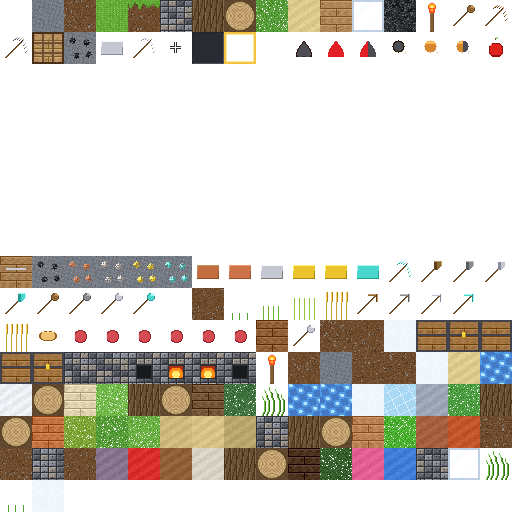
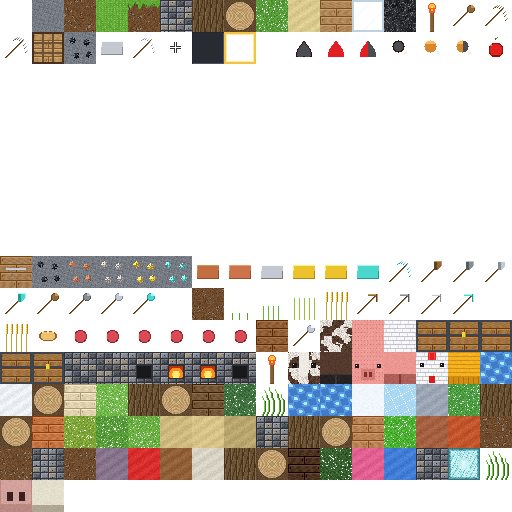
Fix sea lantern transparency and replace placeholder textures for cow, pig, and chicken

Changed region(s): [[0.5625, 0.625, 0.9375, 0.75], [0.0, 0.9375, 0.125, 1.0], [0.875, 0.875, 0.9375, 0.9375]]

diff --git a/scripts/generate_roots_atlas.py b/scripts/generate_roots_atlas.py
@@ -686,6 +686,268 @@ def gen_gui_food(fill_mode="full"):
                 pix[x, y] = bone
     return img
 
+# ---------------------------------------------------------------------------
+# Fauna & Luminescent Block Generators (Sea Lantern, Cow, Pig, Chicken)
+# ---------------------------------------------------------------------------
+
+def gen_sea_lantern(seed=238):
+    """
+    Original 32x luminescent sea lantern block.
+    100% opaque crystalline aquamarine core with prismarine teal border framing.
+    """
+    img = Image.new("RGBA", (TILE_SIZE, TILE_SIZE), (0, 0, 0, 255))
+    pix = img.load()
+    border_dark = (55, 115, 125, 255)
+    border_mid = (85, 155, 165, 255)
+    border_light = (130, 205, 215, 255)
+    core_base = (185, 238, 240, 255)
+    core_bright = (235, 252, 255, 255)
+    core_facet = (140, 212, 220, 255)
+    core_deep = (95, 175, 185, 255)
+
+    for y in range(TILE_SIZE):
+        for x in range(TILE_SIZE):
+            h = hash2d(x, y, seed)
+            dist_edge = min(x, y, 31 - x, 31 - y)
+            if dist_edge == 0:
+                pix[x, y] = border_dark
+            elif dist_edge == 1:
+                pix[x, y] = border_mid if h > 0.3 else border_dark
+            elif dist_edge == 2:
+                pix[x, y] = border_light if h > 0.4 else border_mid
+            else:
+                cx = abs(x - 15.5) / 15.5
+                cy = abs(y - 15.5) / 15.5
+                center_dist = math.sqrt(cx * cx + cy * cy)
+                facet = ((x + y) % 6 == 0) or ((x - y + 32) % 6 == 0)
+                sub_shard = ((x * 2 + y) % 9 == 0)
+                delta = int((h - 0.5) * 24)
+                if center_dist < 0.4:
+                    c = blend(core_bright, core_base, center_dist / 0.4)
+                elif facet:
+                    c = core_bright if h > 0.5 else core_facet
+                elif sub_shard:
+                    c = core_deep
+                else:
+                    c = core_base
+                pix[x, y] = noise_mod(c, delta)
+    return img
+
+def gen_cow_hide(seed=170):
+    """Chocolate brown cow hide with organic creamy white dairy patches."""
+    img = Image.new("RGBA", (TILE_SIZE, TILE_SIZE), (0, 0, 0, 255))
+    pix = img.load()
+    brown_dark = (68, 48, 36, 255)
+    brown_mid = (88, 62, 48, 255)
+    white_base = (235, 230, 224, 255)
+    white_shadow = (205, 198, 192, 255)
+
+    for y in range(TILE_SIZE):
+        for x in range(TILE_SIZE):
+            h = hash2d(x, y, seed)
+            patch_n = (math.sin(x * 0.28) * math.cos(y * 0.32) + 
+                       math.sin((x + y) * 0.22) * 0.5 + 
+                       hash2d(x // 4, y // 4, seed + 1) * 0.8)
+            is_white = patch_n > 0.35
+            delta = int((h - 0.5) * 18)
+            if is_white:
+                base = white_base if h > 0.4 else white_shadow
+            else:
+                base = brown_mid if h > 0.35 else brown_dark
+            pix[x, y] = noise_mod(base, delta)
+    return img
+
+def gen_cow_head(seed=185):
+    """Cow face with white forehead blaze and dark expressive eyes."""
+    img = gen_cow_hide(seed)
+    pix = img.load()
+    white_blaze = (238, 234, 228, 255)
+    eye_dark = (25, 22, 22, 255)
+    eye_glint = (255, 255, 255, 255)
+
+    for y in range(TILE_SIZE):
+        for x in range(TILE_SIZE):
+            h = hash2d(x, y, seed + 10)
+            blaze_w = 4 if y > 20 else 5
+            if abs(x - 15.5) <= blaze_w and y < 24:
+                pix[x, y] = noise_mod(white_blaze, int((h - 0.5) * 14))
+            if (4 <= x <= 8) and (11 <= y <= 15):
+                pix[x, y] = eye_glint if (x == 5 and y == 12) else eye_dark
+            if (23 <= x <= 27) and (11 <= y <= 15):
+                pix[x, y] = eye_glint if (x == 24 and y == 12) else eye_dark
+    return img
+
+def gen_cow_legs(seed=186):
+    """Cow legs with chocolate brown fur and charcoal hooves at bottom."""
+    img = Image.new("RGBA", (TILE_SIZE, TILE_SIZE), (0, 0, 0, 255))
+    pix = img.load()
+    brown_mid = (84, 58, 44, 255)
+    hoof_charcoal = (38, 34, 34, 255)
+    hoof_rim = (58, 54, 54, 255)
+
+    for y in range(TILE_SIZE):
+        for x in range(TILE_SIZE):
+            h = hash2d(x, y, seed)
+            delta = int((h - 0.5) * 16)
+            if y >= 22:
+                c = hoof_rim if y == 22 or (x in (15, 16)) else hoof_charcoal
+            else:
+                c = brown_mid
+            pix[x, y] = noise_mod(c, delta)
+    return img
+
+def gen_cow_snout(seed=240):
+    """Soft rosy mauve cow snout with dark nostrils."""
+    img = Image.new("RGBA", (TILE_SIZE, TILE_SIZE), (0, 0, 0, 255))
+    pix = img.load()
+    snout_pink = (212, 162, 156, 255)
+    snout_shadow = (185, 138, 132, 255)
+    nostril = (58, 32, 32, 255)
+
+    for y in range(TILE_SIZE):
+        for x in range(TILE_SIZE):
+            h = hash2d(x, y, seed)
+            delta = int((h - 0.5) * 14)
+            if ((7 <= x <= 12) and (12 <= y <= 20)) or ((19 <= x <= 24) and (12 <= y <= 20)):
+                pix[x, y] = nostril
+            else:
+                base = snout_shadow if y >= 24 or x in (0, 31) else snout_pink
+                pix[x, y] = noise_mod(base, delta)
+    return img
+
+def gen_cow_horns(seed=241):
+    """Bone and ivory horn texture."""
+    img = Image.new("RGBA", (TILE_SIZE, TILE_SIZE), (0, 0, 0, 255))
+    pix = img.load()
+    horn_ivory = (228, 222, 204, 255)
+    horn_base = (175, 165, 145, 255)
+    for y in range(TILE_SIZE):
+        for x in range(TILE_SIZE):
+            h = hash2d(x, y, seed)
+            delta = int((h - 0.5) * 16)
+            c = horn_base if y > 24 else horn_ivory
+            pix[x, y] = noise_mod(c, delta)
+    return img
+
+def gen_pig_hide(seed=171):
+    """Rosy pink pig skin with subtle warmth and highlights."""
+    img = Image.new("RGBA", (TILE_SIZE, TILE_SIZE), (0, 0, 0, 255))
+    pix = img.load()
+    pink_base = (238, 155, 150, 255)
+    pink_shadow = (212, 130, 125, 255)
+    for y in range(TILE_SIZE):
+        for x in range(TILE_SIZE):
+            h = hash2d(x, y, seed)
+            delta = int((h - 0.5) * 20)
+            base = pink_shadow if (y % 4 == 0 and x % 3 == 0) else pink_base
+            pix[x, y] = noise_mod(base, delta)
+    return img
+
+def gen_pig_head(seed=187):
+    """Cute pig face with prominent snout, dark eyes, and pink skin."""
+    img = gen_pig_hide(seed)
+    pix = img.load()
+    snout_base = (220, 122, 118, 255)
+    nostril = (118, 52, 52, 255)
+    eye_dark = (36, 25, 28, 255)
+    eye_glint = (255, 255, 255, 255)
+
+    for y in range(TILE_SIZE):
+        for x in range(TILE_SIZE):
+            h = hash2d(x, y, seed + 20)
+            if (3 <= x <= 6 and 12 <= y <= 15):
+                pix[x, y] = eye_glint if (x == 4 and y == 13) else eye_dark
+            elif (25 <= x <= 28 and 12 <= y <= 15):
+                pix[x, y] = eye_glint if (x == 26 and y == 13) else eye_dark
+            elif (9 <= x <= 22 and 17 <= y <= 27):
+                if (12 <= x <= 14 and 20 <= y <= 24) or (17 <= x <= 19 and 20 <= y <= 24):
+                    pix[x, y] = nostril
+                else:
+                    pix[x, y] = noise_mod(snout_base, int((h - 0.5) * 14))
+    return img
+
+def gen_pig_legs(seed=188):
+    """Pink pig legs with darker cloven trotters."""
+    img = Image.new("RGBA", (TILE_SIZE, TILE_SIZE), (0, 0, 0, 255))
+    pix = img.load()
+    pink_base = (235, 150, 145, 255)
+    trotter = (175, 95, 90, 255)
+    cleft = (125, 60, 55, 255)
+    for y in range(TILE_SIZE):
+        for x in range(TILE_SIZE):
+            h = hash2d(x, y, seed)
+            delta = int((h - 0.5) * 16)
+            if y >= 22:
+                c = cleft if x in (15, 16) else trotter
+            else:
+                c = pink_base
+            pix[x, y] = noise_mod(c, delta)
+    return img
+
+def gen_chicken_feathers(seed=172):
+    """Crisp layered white/cream feathers with soft scalloped shading."""
+    img = Image.new("RGBA", (TILE_SIZE, TILE_SIZE), (0, 0, 0, 255))
+    pix = img.load()
+    white_base = (248, 248, 248, 255)
+    white_shade = (218, 218, 224, 255)
+    white_dark = (195, 195, 204, 255)
+    for y in range(TILE_SIZE):
+        for x in range(TILE_SIZE):
+            h = hash2d(x, y, seed)
+            scallop = (x + (y // 4) * 3) % 8
+            delta = int((h - 0.5) * 16)
+            if y % 4 == 0:
+                base = white_dark
+            elif scallop == 0:
+                base = white_shade
+            else:
+                base = white_base
+            pix[x, y] = noise_mod(base, delta)
+    return img
+
+def gen_chicken_head(seed=189):
+    """White chicken head with bright red comb, side eyes, and red wattle."""
+    img = gen_chicken_feathers(seed)
+    pix = img.load()
+    red_comb = (228, 36, 36, 255)
+    comb_hi = (250, 68, 68, 255)
+    eye_dark = (26, 24, 24, 255)
+    eye_glint = (255, 255, 255, 255)
+    wattle = (215, 28, 28, 255)
+
+    for y in range(TILE_SIZE):
+        for x in range(TILE_SIZE):
+            h = hash2d(x, y, seed + 30)
+            if (12 <= x <= 19 and 0 <= y <= 7):
+                pix[x, y] = comb_hi if (y == 0 or x in (13, 18)) else red_comb
+            elif (4 <= x <= 7 and 11 <= y <= 14):
+                pix[x, y] = eye_glint if (x == 5 and y == 12) else eye_dark
+            elif (24 <= x <= 27 and 11 <= y <= 14):
+                pix[x, y] = eye_glint if (x == 25 and y == 12) else eye_dark
+            elif (13 <= x <= 18 and 24 <= y <= 30):
+                pix[x, y] = wattle
+    return img
+
+def gen_chicken_legs(seed=190):
+    """Warm amber/yellow legs and feet with claw markings."""
+    img = Image.new("RGBA", (TILE_SIZE, TILE_SIZE), (0, 0, 0, 255))
+    pix = img.load()
+    amber_base = (245, 178, 32, 255)
+    amber_shade = (210, 142, 18, 255)
+    claw_dark = (175, 112, 12, 255)
+    for y in range(TILE_SIZE):
+        for x in range(TILE_SIZE):
+            h = hash2d(x, y, seed)
+            delta = int((h - 0.5) * 16)
+            if y >= 25:
+                base = claw_dark if (x % 5 == 0) else amber_shade
+            elif y % 4 == 0:
+                base = amber_shade
+            else:
+                base = amber_base
+            pix[x, y] = noise_mod(base, delta)
+    return img
+
 
 # ---------------------------------------------------------------------------
 # Font Glyph Generator
@@ -874,10 +1136,10 @@ def generate_roots_atlas():
     place(168, gen_planks(168, (145, 95, 55))) # Leather
     place(169, gen_tool_icon(mat_iron, "shovel")) # Feather
 
-    # Chest & Furnace
-    place(170, gen_dirt(170)) # Cow hide
-    place(171, gen_dirt(171)) # Pig hide
-    place(172, gen_snow())    # Chicken feathers
+    # Animal Textures & Crafting
+    place(170, gen_cow_hide(170))
+    place(171, gen_pig_hide(171))
+    place(172, gen_chicken_feathers(172))
     place(173, gen_chest_face(False)) # Chest top
     place(174, gen_chest_face(True))  # Chest front
     place(175, gen_chest_face(False)) # Chest side
@@ -890,12 +1152,12 @@ def generate_roots_atlas():
     place(182, gen_furnace_face(True))  # Furnace item icon
     place(183, gen_furnace_face(False)) # Flame container GUI
     place(184, gen_torch())             # Flame full GUI
-    place(185, gen_dirt(185)) # Cow head
-    place(186, gen_stone(186)) # Cow legs
-    place(187, gen_dirt(187)) # Pig head
-    place(188, gen_dirt(188)) # Pig legs
-    place(189, gen_snow())    # Chicken head
-    place(190, gen_sand(190)) # Chicken legs
+    place(185, gen_cow_head(185))
+    place(186, gen_cow_legs(186))
+    place(187, gen_pig_head(187))
+    place(188, gen_pig_legs(188))
+    place(189, gen_chicken_head(189))
+    place(190, gen_chicken_legs(190))
 
     # Biome Trees & Water
     place(191, gen_water())
@@ -952,10 +1214,10 @@ def generate_roots_atlas():
     place(235, gen_sand(235, (225, 95, 145))) # Brain coral
     place(236, gen_sand(236, (65, 125, 215))) # Tube coral
     place(237, gen_cobblestone(237))          # Prismarine
-    place(238, gen_glass())                   # Sea lantern
+    place(238, gen_sea_lantern(238))
     place(239, gen_tall_grass(239))           # Seagrass
-    place(240, gen_wheat_crop(0))             # Wheat seeds / cow snout
-    place(241, gen_snow())                    # Cow horns
+    place(240, gen_cow_snout(240))
+    place(241, gen_cow_horns(241))
 
     output_path = "crates/blockgame_render/assets/roots_atlas_512.png"
     atlas.save(output_path, "PNG")

diff --git a/crates/blockgame_render/src/atlas.rs b/crates/blockgame_render/src/atlas.rs
@@ -1955,5 +1955,66 @@ mod tests {
             );
         }
     }
+
+    #[test]
+    fn test_sea_lantern_and_animal_atlas_tiles() {
+        let atlas = TextureAtlas::generate_default();
+
+        // 1. Sea lantern (238) must be 100% opaque, luminescent cyan/aquamarine
+        let sl_x = (238u32 % ATLAS_TILES_PER_ROW) * TILE_SIZE;
+        let sl_y = (238u32 / ATLAS_TILES_PER_ROW) * TILE_SIZE;
+        for y in 0..TILE_SIZE {
+            for x in 0..TILE_SIZE {
+                let px = atlas.image.get_pixel(sl_x + x, sl_y + y);
+                assert_eq!(
+                    px[3], 255,
+                    "Sea lantern pixel at ({}, {}) must be 100% opaque, not glass",
+                    x, y
+                );
+                assert!(
+                    px[2] >= 120,
+                    "Sea lantern pixel at ({}, {}) should have prominent blue/cyan channel",
+                    x, y
+                );
+            }
+        }
+
+        // 2. Cow tiles (170 hide, 185 head, 186 legs, 240 snout, 241 horns)
+        for tile_id in [170, 185, 186, 240, 241] {
+            let tx = (tile_id % ATLAS_TILES_PER_ROW) * TILE_SIZE;
+            let ty = (tile_id / ATLAS_TILES_PER_ROW) * TILE_SIZE;
+            for y in 0..TILE_SIZE {
+                for x in 0..TILE_SIZE {
+                    let px = atlas.image.get_pixel(tx + x, ty + y);
+                    assert_eq!(px[3], 255, "Cow tile {} must be opaque", tile_id);
+                }
+            }
+        }
+
+        // 3. Pig tiles (171 hide, 187 head, 188 legs) must be opaque pink
+        for tile_id in [171, 187, 188] {
+            let tx = (tile_id % ATLAS_TILES_PER_ROW) * TILE_SIZE;
+            let ty = (tile_id / ATLAS_TILES_PER_ROW) * TILE_SIZE;
+            let center_px = atlas.image.get_pixel(tx + 16, ty + 16);
+            assert_eq!(center_px[3], 255, "Pig tile {} must be opaque", tile_id);
+            assert!(
+                center_px[0] > 180 && center_px[0] > center_px[2],
+                "Pig tile {} should have warm rosy pink tone",
+                tile_id
+            );
+        }
+
+        // 4. Chicken tiles (172 body/feathers, 189 head, 190 legs)
+        for tile_id in [172, 189, 190] {
+            let tx = (tile_id % ATLAS_TILES_PER_ROW) * TILE_SIZE;
+            let ty = (tile_id / ATLAS_TILES_PER_ROW) * TILE_SIZE;
+            for y in 0..TILE_SIZE {
+                for x in 0..TILE_SIZE {
+                    let px = atlas.image.get_pixel(tx + x, ty + y);
+                    assert_eq!(px[3], 255, "Chicken tile {} must be opaque", tile_id);
+                }
+            }
+        }
+    }
 }
 
